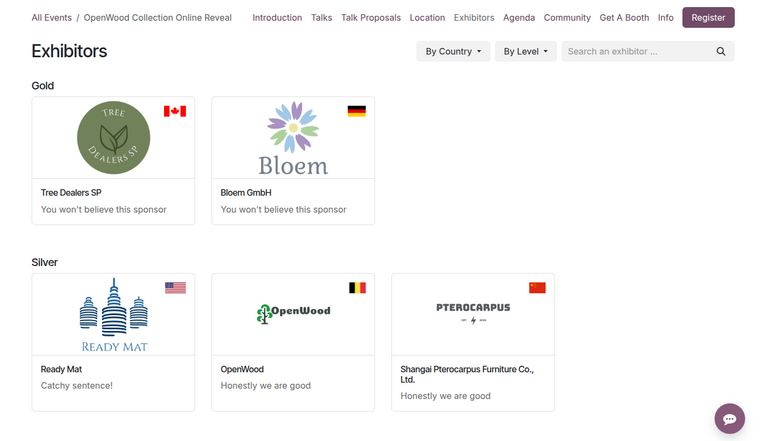
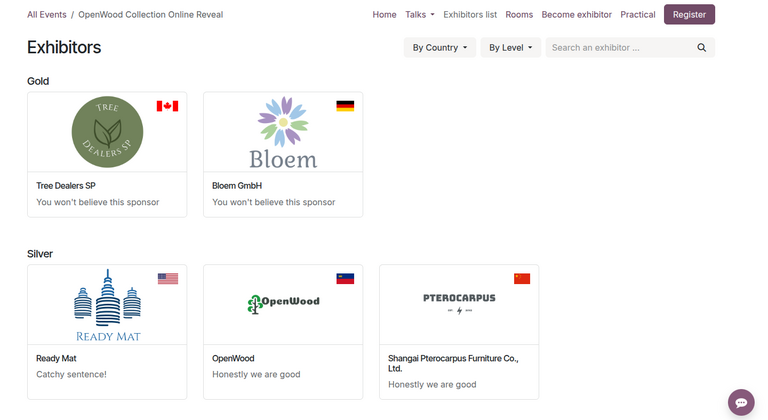
[IMP] Events: Bring sponsors current 19.0
closes odoo/documentation#17347

X-original-commit: 44934ef4f561a5e4a275bbcfef185a3e3b748cf9

diff --git a/content/applications/marketing/events/promote_monetize/event_sponsors.rst b/content/applications/marketing/events/promote_monetize/event_sponsors.rst
@@ -27,7 +27,7 @@ view. Optionally, to view the sponsors in a list, click the :icon:`oi-view-list`
 view.
 
 .. image:: event_sponsors/event-sponsors-dashboard.png
-    :alt: Event sponsors dashboard in Odoo Events.
+   :alt: Event sponsors dashboard in Odoo Events.
 
 Any newly added sponsors appear on this page as cards with the sponsor logo, name, type of sponsor,
 and contact information. Additionally, a green :guilabel:`Published` banner appears in the corner
@@ -43,7 +43,7 @@ On the sponsor dashboard page, click the :guilabel:`New` button at the top-left 
 sponsor form.
 
 .. image:: event_sponsors/event-sponsors-form.png
-    :alt: Event sponsor form in Odoo Events.
+   :alt: Event sponsor form in Odoo Events.
 
 On the form are multiple fields to configure the sponsor's contact details and type of sponsorship:
 
@@ -52,17 +52,19 @@ On the form are multiple fields to configure the sponsor's contact details and t
 - :guilabel:`Partner`: Contact of the sponsorship partner. This field is **required**.
 - :guilabel:`Email`: Email of the sponsor.
 - :guilabel:`Phone`: Phone number of the sponsor.
-- :guilabel:`Mobile`: Mobile phone of the sponsor.
 - :guilabel:`Website`: Link to the sponsor's website.
 - :guilabel:`Event`: Specific event to be sponsored.
 - :guilabel:`Sponsorship Level`: Tier or level of sponsorship.
 - :guilabel:`Sponsor Type`: Type of participation of the sponsor during the event.
+- :guilabel:`Show on ticket`: Option to display sponsor logos on attendees' registration tickets.
+
+Additional fields may appear depending on the :ref:`sponsorship details
+<event_sponsors/sponsorship-details>` provided by the user.
+
+Contact details
+---------------
 
 To start, enter a name for the sponsor under the :guilabel:`Sponsor Name` field.
-
-.. note::
-    Alternatively, selecting a contact under the :guilabel:`Partner` drop-down will auto-populate
-    the :guilabel:`Sponsor Name` field with the partner name.
 
 Optionally, enter the :guilabel:`Slogan`. This slogan is displayed on the sponsor's page on the
 website.
@@ -70,21 +72,28 @@ website.
 Next, select or create a :guilabel:`Partner` for the sponsorship by selecting a contact from the
 drop-down.
 
-.. note::
-    Selecting an existing partner contact will auto-populate the remaining :guilabel:`Email`,
-    :guilabel:`Phone`, :guilabel:`Mobile`, and :guilabel:`Website` fields **only if** those fields
-    are already configured on the partner's contact form. To view this contact form, click the
-    :icon:`oi-arrow-right` :guilabel:`(right)` arrow at the right of the :guilabel:`Partner`
-    drop-down.
+Selecting an existing partner contact will auto-populate the remaining :guilabel:`Email`,
+:guilabel:`Phone`, :guilabel:`Mobile`, and :guilabel:`Website` fields **only if** those fields are
+already configured on the partner's contact form.
+
+.. tip::
+   To view this contact form, click the :icon:`oi-arrow-right` :guilabel:`(right)` arrow at the
+   right of the :guilabel:`Partner` drop-down.
 
 Otherwise, if the fields do not auto-populate, manually enter the contact's details.
 
 The :guilabel:`Event` field is already populated. However, it is possible to change the sponsor's
 event by selecting the relevant option under the drop-down.
 
-Then, select or create a sponsorship level/tier. By default Odoo **Events** creates three
-sponsorship levels: *Gold*, *Silver*, and *Bronze*. Each of these options displays the sponsor's
-logo on the event webpage in gold, silver, and bronze colors, respectively.
+.. _event_sponsors/sponsorship-details:
+
+Sponsorship details
+-------------------
+
+After configuring the sponsor's contact information, select or create a :guilabel:`Sponsorship
+Level` or tier. By default Odoo **Events** creates three sponsorship levels: *Gold*, *Silver*, and
+*Bronze*. Each of these options displays the sponsor's logo on the event webpage in gold, silver,
+and bronze colors, respectively.
 
 In the :guilabel:`Sponsor Type` field, select how the sponsor should be featured during the event.
 
@@ -94,22 +103,23 @@ Odoo **Events** supports three sponsor types:
   Selecting this option creates a :guilabel:`Display in footer` toggle button on the form. The
   footer logo is displayed **only if** this button is toggled.
 - :guilabel:`Exhibitor`: Features the sponsor as an exhibitor on the event webpage under the
-  *Exhibitors* sub-menu.
+  *Exhibitors list* menu item. Selecting this option creates two :guilabel:`Opening Hours` fields
+  for the user to specify the exhibitor's available hours.
 - :guilabel:`Online Exhibitor`: Features the sponsor as an online exhibitor on the event webpage
-  under the *Exhibitors* sub-menu, similar to the :guilabel:`Exhibitor` option. However, this option
-  also displays a *Connect* button when hovering over the sponsor's thumbnail. When clicked,
+  under the *Exhibitors list* menu item, similar to the :guilabel:`Exhibitor` option. However, this
+  option also displays a *Connect* button when hovering over the sponsor's thumbnail. When clicked,
   attendees can connect with the sponsor online through their contact details.
 
 .. note::
-    Both the :guilabel:`Exhibitor` and the :guilabel:`Online Exhibitor` options display the sponsor
-    logo in the footer of the event webpage.
+   Both the :guilabel:`Exhibitor` and the :guilabel:`Online Exhibitor` options display the sponsor
+   logo in the footer of the event webpage.
 
 If the :guilabel:`Exhibitor` or :guilabel:`Online Exhibitor` option is selected, an additional
 :guilabel:`Description` tab appears at the bottom of the sponsor form. Enter a description for the
 sponsor to be displayed on the sponsor's webpage.
 
-Additionally, for the :guilabel:`Online Exhibitor` option, a :guilabel:`Online` tab appears at the
-bottom for the user to configure their *Jitsi* integration.
+Finally, if the :guilabel:`Show on ticket` option is selected, registration tickets display the
+logos of published sponsors for the event.
 
 Publish an event sponsor
 ========================
@@ -122,27 +132,27 @@ footer` button publishes the sponsor and displays the sponsor logo in the footer
 webpage.
 
 .. image:: event_sponsors/event-sponsors-logos.png
-    :alt: Event sponsors logos in footer in Odoo Events.
+   :alt: Event sponsors logos in footer in Odoo Events.
 
 For the :guilabel:`Exhibitor` or :guilabel:`Online Exhibitor` options, click on the :icon:`fa-globe`
 :guilabel:`Go to Website` on the form. Then, click the :guilabel:`Unpublished` toggle button at the
 top-right to publish the sponsor page.
 
 To see the published list of sponsors on the website, navigate to :menuselection:`Website app -->
-Events sub-header`. Then, click on the relevant event. In the sub-menu, click on
-:guilabel:`Exhibitors` to see the list of published sponsors.
+Events`. Then, click on the relevant event. In the event sub-menu, click :guilabel:`Exhibitors list`
+to see the list of published sponsors.
 
 .. image:: event_sponsors/event-exhibitors.png
-    :alt: Event exhibitors on the website in Odoo Events.
+   :alt: Event exhibitors on the website in Odoo Events.
 
 .. note::
-    If the sub-header menu is **not** showing up on the event website, click :guilabel:`Edit` at the
-    top-right corner. Then, click into the :guilabel:`Customize` tab of the sidebar.
+   If the sub-menu is **not** showing up on the event webpage, click :guilabel:`Edit` in the top
+   corner. Then, click into the :guilabel:`Customize` tab of the sidebar.
 
-    In the :guilabel:`Customize` tab, click the :guilabel:`Sub-menu (Specific)` toggle button and
-    click :guilabel:`Save`.
+   In the :guilabel:`Customize` tab, click the :guilabel:`Sub-menu (Specific)` toggle button and
+   click :guilabel:`Save`.
 
-    The website then displays the event sub-header menu with various options.
+   The website then displays the event sub-menu with various options.
 
 .. seealso::
     - :doc:`event_booths`
